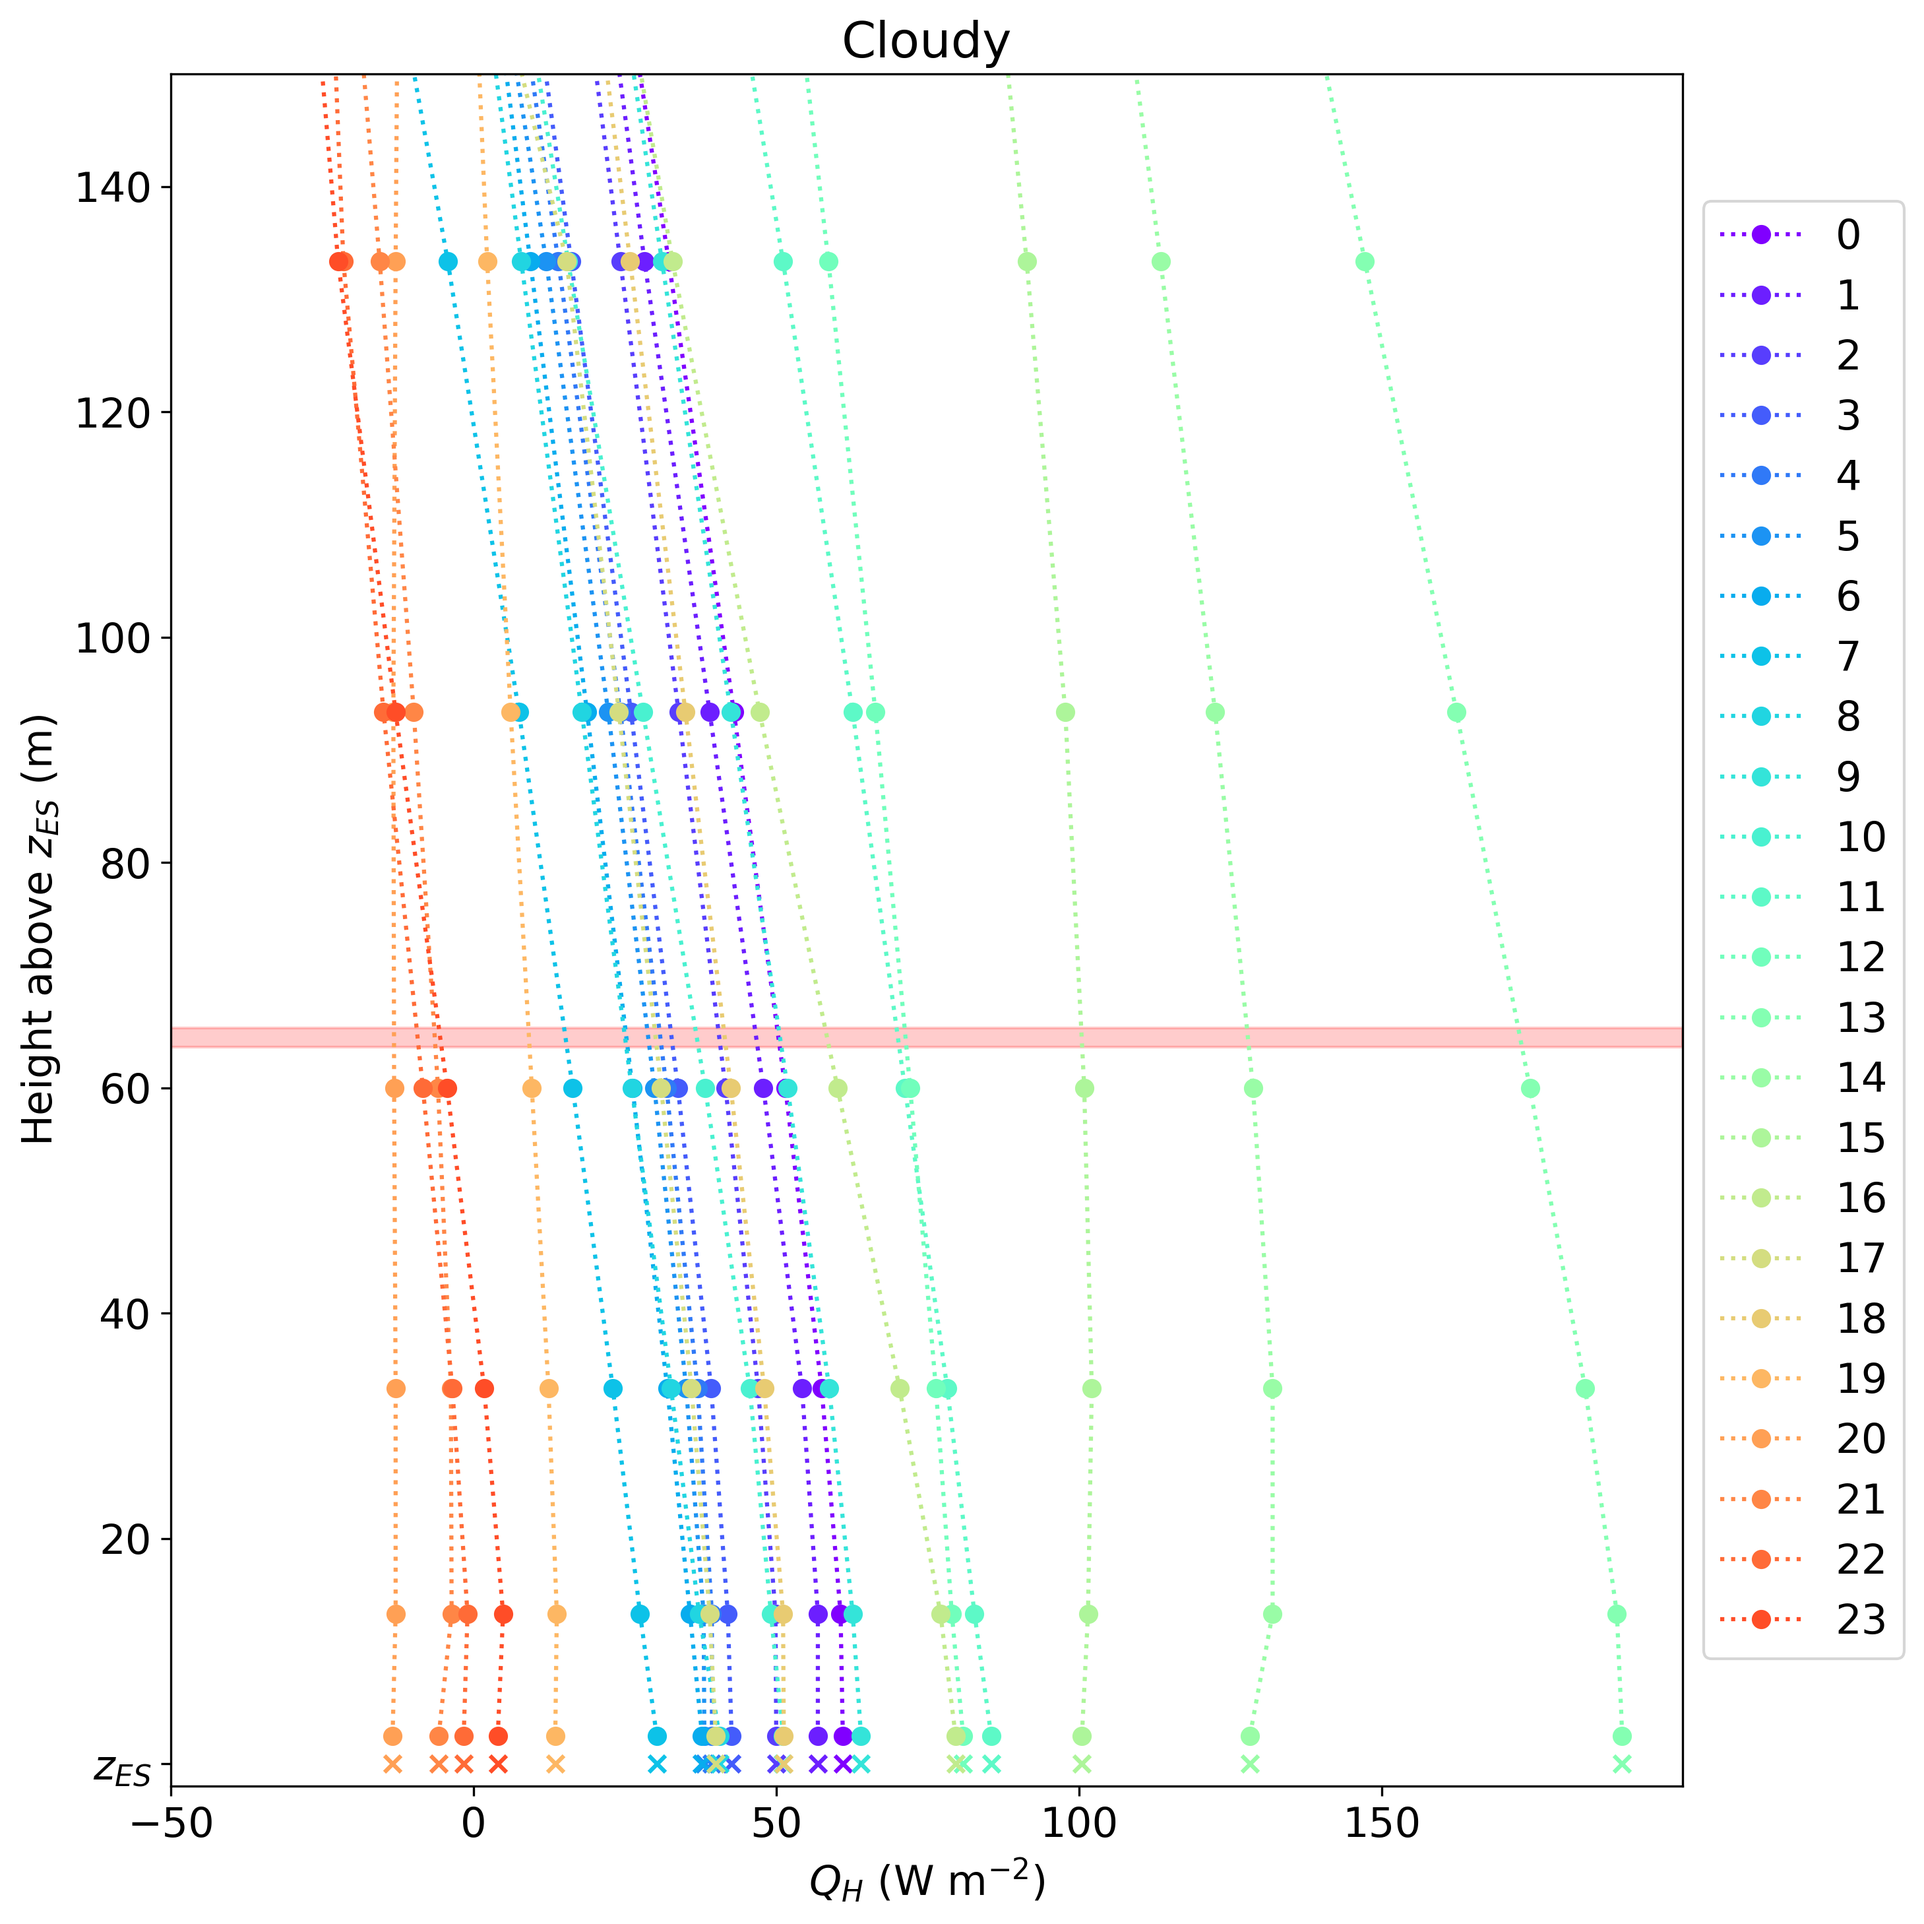
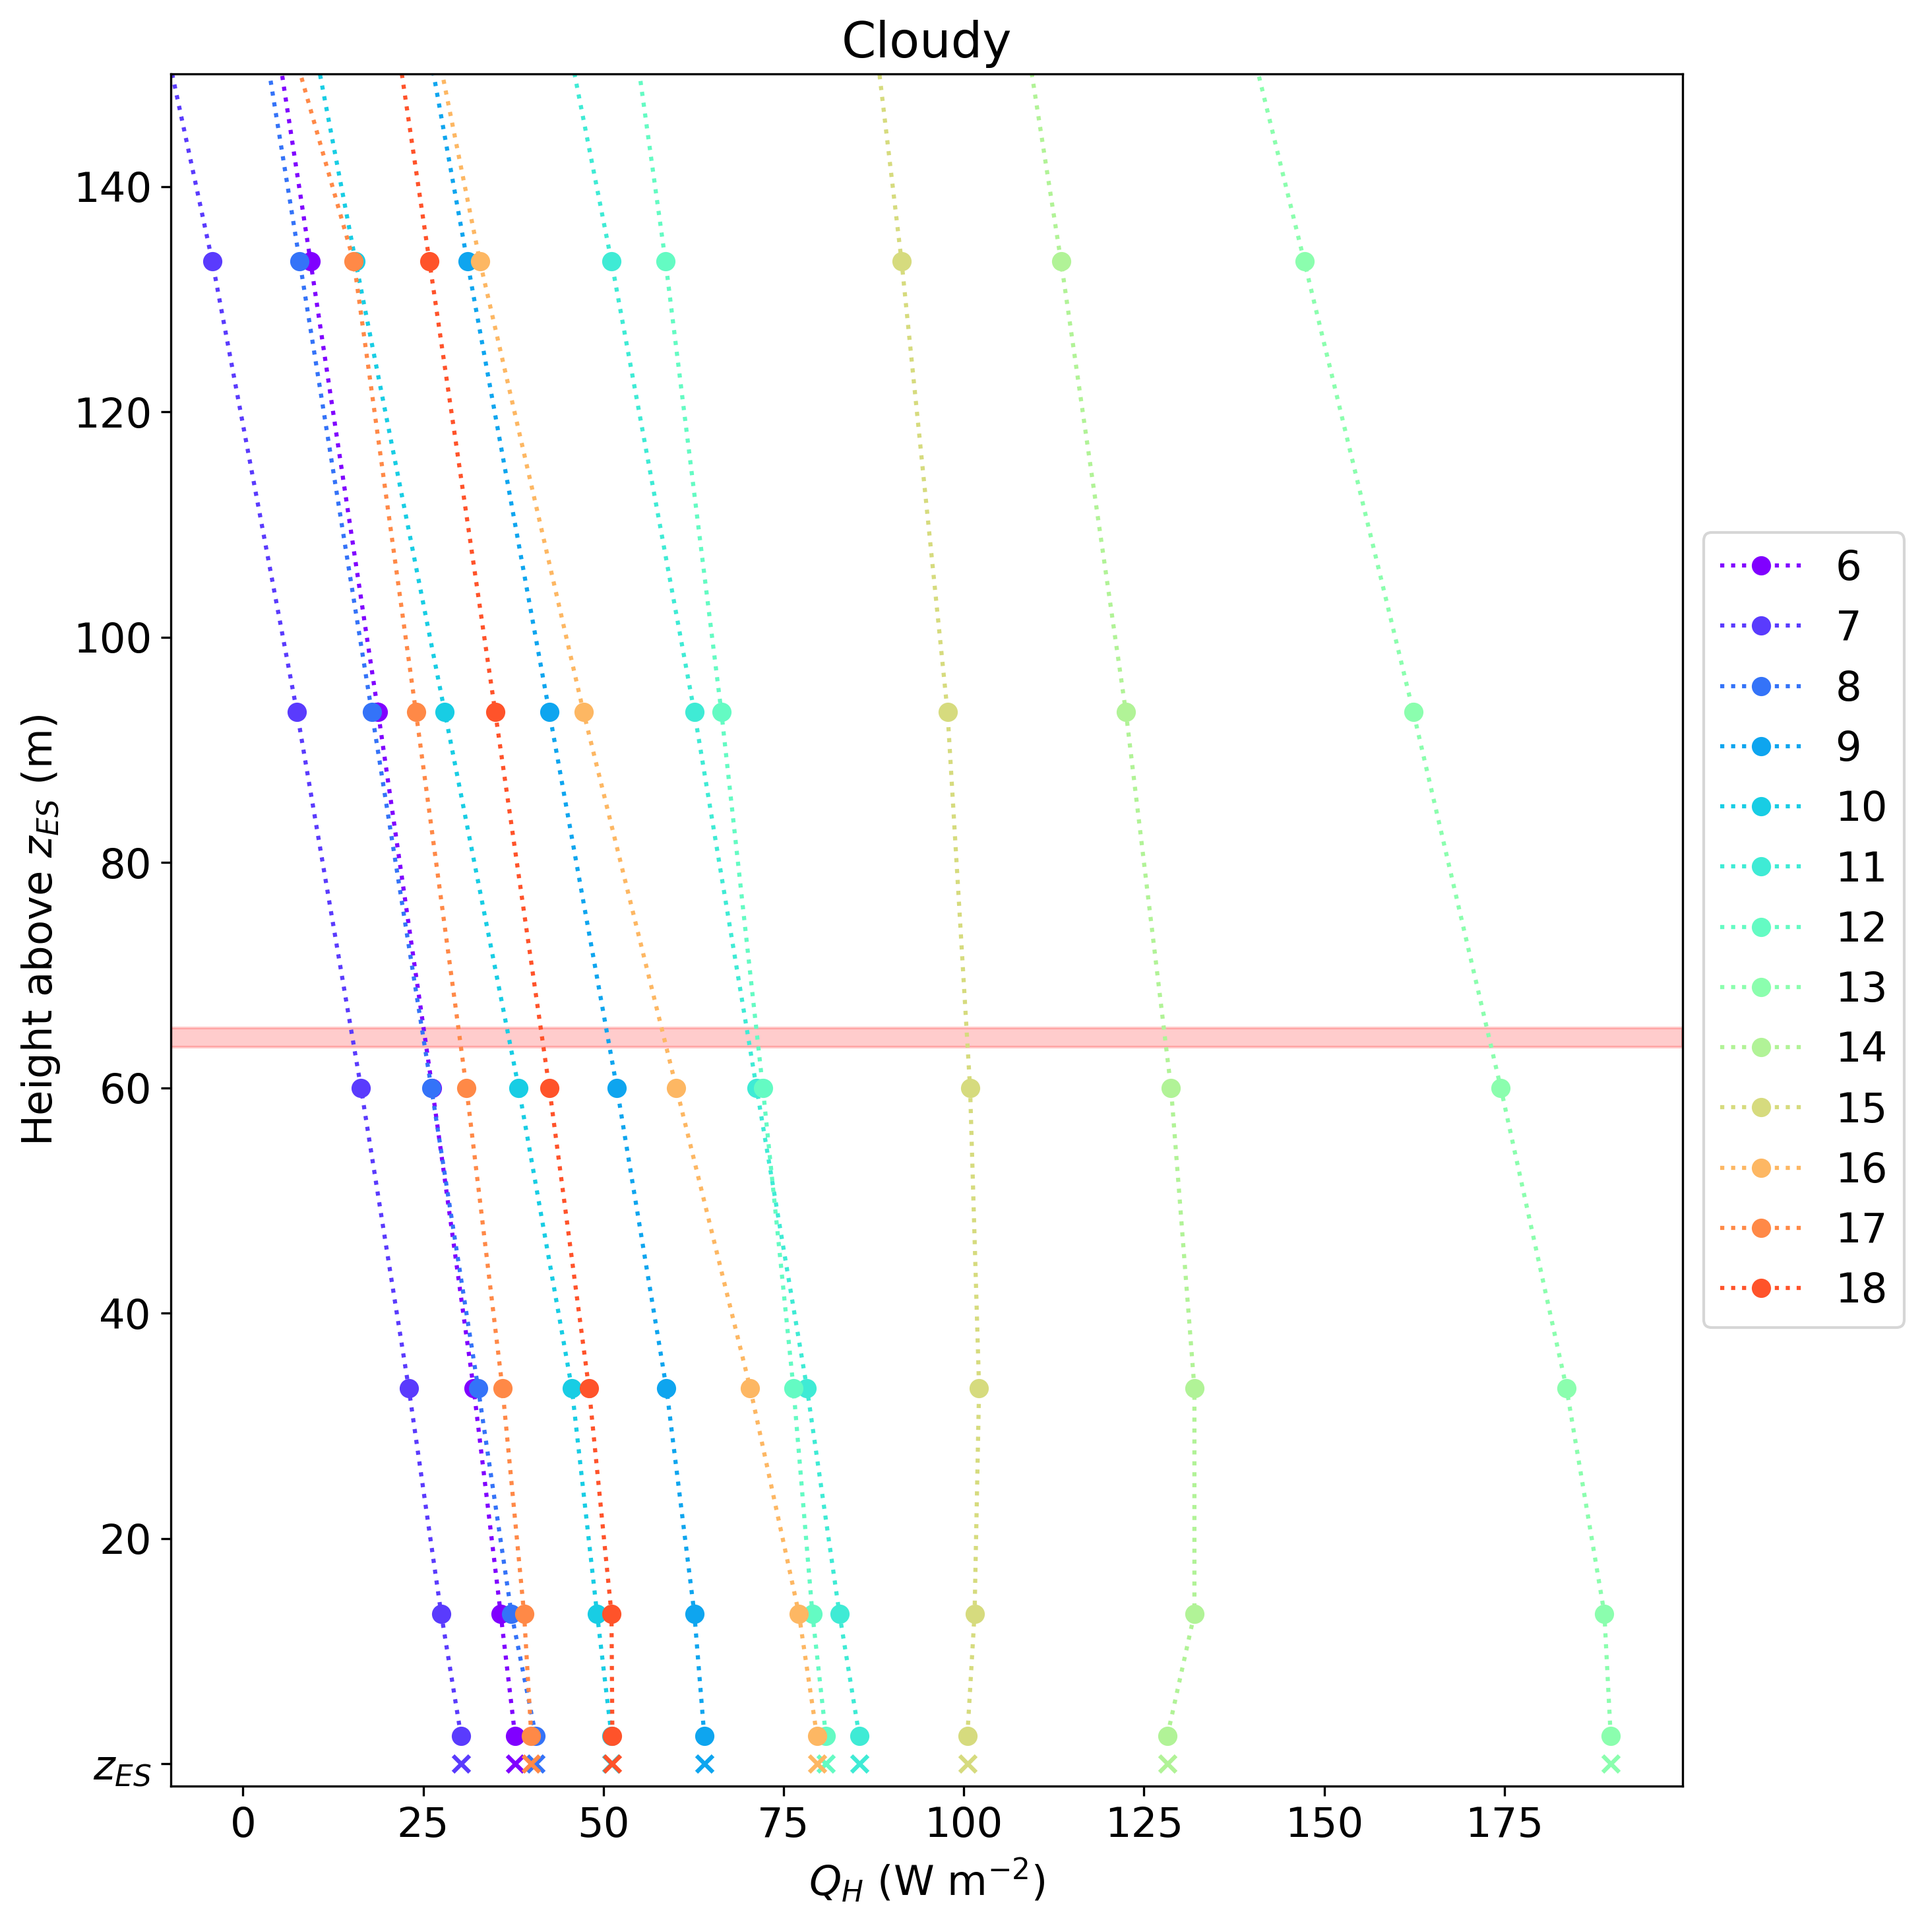
remove unused hours

diff --git a/scint_plots/model_levels/model_levels_funs.py b/scint_plots/model_levels/model_levels_funs.py
@@ -126,12 +126,17 @@ def create_model_height_plot(model_times,
     :return:
     """
 
+    # included hours
+    # (start and end are included)
+    start_hour = 6
+    end_hour = 18
+
     # colours
     cmap = plt.cm.rainbow  # define the colormap
     # extract all colors from the .jet map
     cmaplist = [cmap(i) for i in range(cmap.N)]
 
-    list_len = len(model_times)
+    list_len = end_hour - start_hour + 1
 
     colour_len = len(cmaplist)
 
@@ -141,16 +146,27 @@ def create_model_height_plot(model_times,
 
     count = 0
     for i in model_times:
-        color_choice = cmaplist[count]
-        colour_list.append(color_choice)
-        count += colour_intervals
+
+        if start_hour <= i.hour <= end_hour:
+            color_choice = cmaplist[count]
+            colour_list.append(color_choice)
+            count += colour_intervals
 
     fig, ax = plt.subplots(figsize=(10, 10))
 
+    count = 0
     for i in range(len(model_times)):
-        qh_at_1_time = var_grid[i, :]
-        plt.plot(qh_at_1_time, model_heights, label=str(i), color=colour_list[i], marker='o', linestyle='dotted')
-        plt.scatter(var_surf_grid[i], 0, color=colour_list[i], marker='x')
+
+        # only use unstable hours in profile
+        assert model_times[i].hour == i
+        if start_hour <= i <= end_hour:
+
+            qh_at_1_time = var_grid[i, :]
+
+            plt.plot(qh_at_1_time, model_heights, label=str(i), color=colour_list[count], marker='o', linestyle='dotted')
+            plt.scatter(var_surf_grid[i], 0, color=colour_list[count], marker='x')
+
+            count += 1
 
     # get range of observation effective measurement height
     max_z_f = np.nanmax(obs_df)
@@ -159,8 +175,18 @@ def create_model_height_plot(model_times,
 
     plt.legend(loc='center left', bbox_to_anchor=(1, 0.5), prop={'size': 15})
 
+    # set title and minimum
+    if obs_df.index[0].strftime('%j') == '126':
+        title_string = 'Clear'
+        x_min = -20
+    else:
+        assert obs_df.index[0].strftime('%j') == '123'
+        title_string = 'Cloudy'
+        x_min = -10
+    plt.title(title_string)
+
     plt.ylim(-2, 150)
-    plt.xlim(-50, max(var_surf_grid) + 10)
+    plt.xlim(x_min, max(var_surf_grid) + 10)
     plt.ylabel("Height above $z_{ES}$ (m)")
     plt.xlabel('$Q_{H}$ (W m$^{-2}$)')
 
@@ -173,13 +199,7 @@ def create_model_height_plot(model_times,
 
     ax.set_yticklabels(labels)
 
-    # set title
-    if obs_df.index[0].strftime('%j') == '126':
-        title_string = 'Clear'
-    else:
-        assert obs_df.index[0].strftime('%j') == '123'
-        title_string = 'Cloudy'
-    plt.title(title_string)
+
 
     plt.tight_layout()
 
